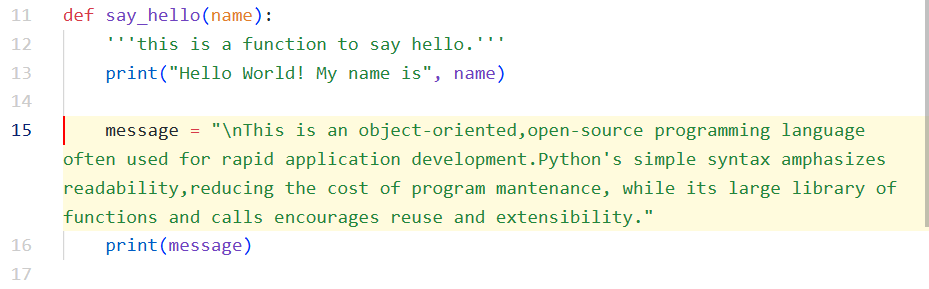
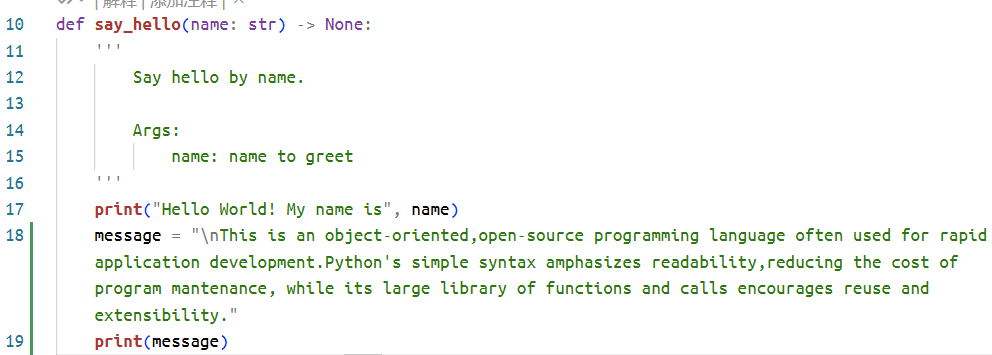
整理Python学习笔记：基础语法学习

diff --git a/02_基础技术研究/00.计算机语言/01.编程语言/Python/01.学习笔记/examples/say_hello/main.py b/02_基础技术研究/00.计算机语言/01.编程语言/Python/01.学习笔记/examples/say_hello/main.py
@@ -6,6 +6,7 @@
     Created on: 2024-06-15
     '''
 
+author_name = "owlman"  # global variable
 def say_hello(name: str) -> None:
     '''
         Say hello by name.
@@ -14,7 +15,17 @@ def say_hello(name: str) -> None:
             name: name to greet
     '''
     print("Hello World! My name is", name)
+    message = "\nThis is an object-oriented,open-source programming language often used for rapid application development.Python's simple syntax amphasizes readability,reducing the cost of program mantenance, while its large library of functions and calls encourages reuse and extensibility."
+    print(message)
+    print("") # print a blank line
+
+def say_hello_to_me() -> None:
+    '''
+        Say hello to myself.
+    '''
+    author_name = "lingjie" # local variable
+    say_hello(author_name)
 
 if __name__ == "__main__":
-    author_name = "lingjie"    
-    say_hello(author_name)
+    say_hello(author_name) 
+    say_hello_to_me()      

diff --git a/02_基础技术研究/00.计算机语言/01.编程语言/Python/01.学习笔记/基础语法学习.md b/02_基础技术研究/00.计算机语言/01.编程语言/Python/01.学习笔记/基础语法学习.md
@@ -14,7 +14,7 @@ categories: 编程语言
 > - 了解 Python 的内置数据类型、自定义类型以及它们可执行的相关操作；
 > - 了解如何在 Python 中使用函数、对象以及模块来实现面向过程/对象的编程；
 
-自《The C Programming Language》这本在编程语言领域中被誉为堪称“圣经”的经典教材问世以来，在命令行终端环境中输出带有“Hello World”字样的信息已经成为了人们学习一门新的编程语言，或者测试该语言的执行环境是否正常的第一个演示程序。这样做不仅可以先让我们对自己要学习的编程语言及其执行环境有一个整体的印象，同时也为该语言的基础语法学习提供了一个切入点。接下来，就让我们闲话少说，先从《[[编程环境配置]]》那篇笔记末尾的那版 Hello World 程序开始聊起吧，其代码如下所示。
+自《The C Programming Language》这本在编程语言领域中被誉为“圣经”的经典教材问世以来，在命令行终端环境中输出带有“Hello World”字样的信息已经成为了人们学习一门新的编程语言，或者测试该语言的执行环境是否正常的第一个演示程序。这样做不仅可以先让我们对自己要学习的编程语言及其执行环境有一个整体的印象，同时也为该语言的基础语法学习提供了一个切入点。接下来，就让我们闲话少说，先从《[[编程环境配置]]》那篇笔记末尾的那版 Hello World 程序开始聊起吧，其代码如下所示。
 
 ```python
 #! /usr/bin/env python
@@ -25,6 +25,7 @@ categories: 编程语言
     Created on: 2024-06-15
     '''
 
+author_name = "owlman"
 def say_hello(name: str) -> None:
     '''
         Say hello by name.
@@ -35,7 +36,6 @@ def say_hello(name: str) -> None:
     print("Hello World! My name is", name)
 
 if __name__ == "__main__":
-    author_name = "lingjie"    
     say_hello(author_name)
 ```
 
@@ -139,50 +139,44 @@ def [函数名称]([参数列表]) -> [返回值类型]:
 - `[函数名称]`是被定义函数的名称，在 Python 中，函数的命名规则与变量是一样的，读者可以自行参考之前关于变量命名规则的介绍来了解更多细节。
 - `[参数列表]`是调用函数时需要传入的参数列表，它可以为空，也可以包含一个或多个参数。每个参数之间用逗号隔开，参数的命名规则同样与变量名一致。在 Python 3.5 之后的版本中，我们还可以通过`参数名:参数类型标注`的形式来标注相应参数的类型，例如`name:str`、`age:int`、`height:float`等。但需要注意的是，参数类型的标注语法是可选的、也不具备强制性的约束，换言之，它并不会在函数被调用时对传入的参数值进行实际的类型检查，但它可以帮助我们更好地理解代码的意图。
 - `-> [返回值类型]`是函数返回值的类型标注语法，它也是可选的，用于说明该函数的返回值类型。同样需要注意的是，它也不会在函数被调用时对返回值进行实际的类型检查。
-- `[功能说明]`是之前演示过的文档字符串，它是一个用于描述函数功能和用法的多行字符串，通常位于函数定义的第一行。在函数的功能过于简答时，这个说明可以省略不写，但在函数的功能较为复杂时，编写一个清晰的功能说明是非常有必要的。
+- `[功能说明]`是之前演示过的文档字符串，它是一个用于描述函数功能和用法的多行字符串，通常位于函数定义的第一行。在函数的功能过于简单时，这个说明可以省略不写，但在函数的功能较为复杂时，编写一个清晰的功能说明是非常有必要的。
 - `[函数主体]`是函数的具体实现部分，其中包含了该函数执行的所有代码。
 
-如果具体到 Hello World 程序中，`[函数名称]`对应的就是`say_hello`，`[参数列表]`在这里就是一对小括号中的`name`，而`[功能说明]`则是我们之前在 Python 交互式终端中使用`help`函数展示过的那个文档字符串。最后，其`[函数主体]`中只有一条用于打印文本信息的语句。与 C/C++/Java 这类语言相比，Python 语法的最大特色之一就是：它不是使用大括号，而是使用文本缩进格式来表示不同的作用域。因此，我们可以看到`[函数主体]`所在的区域与`def`所在的行之间存在着四个空格的缩进。需要注意的是，虽然在语法规则上，定义作用域的缩进所使用的空格数是可变的，但同一级作用域使用的缩进格式必须保持相同的空格数，否则就会出现错误。
+如果具体到 Hello World 程序中，`[函数名称]`对应的就是`say_hello`，`[参数列表]`在这里就是一对小括号中的`name:str`，而`[功能说明]`则是我们之前在 Python 交互式终端中使用`help`函数展示过的那个文档字符串。最后，其`[函数主体]`中只有一条用于打印文本信息的语句。
 
-而在同一个作用域内，我们通常都有一个独立的变量命名空间可以使用，读者可以在其中定义多个局部变量，并编写多行语句来执行与这些变量相关的操作，完全不必担心自己使用的变量名与某个全局变量冲突。例如，如果我们在之前的 Hello World 程序中新增一个名为`another_name`的函数，并在该函数重新定义一个名为`author_name`的变量，那么它就会覆盖掉之前定义的全局变量`author_name`，从而使得该函数内部的代码可以使用这个变量名来引用新的值，具体如下。
+### 作用域与命名空间
+
+与 C/C++/Java 这类大家熟悉的编程语言相比，Python 语法的最大特色之一就是：它不是使用大括号，而是使用文本缩进格式来表示不同的作用域。因此，我们可以在用于函数定义的语法规则中看到，`[函数主体]`所在的区域与`def`所在的行之间存在着四个空格的文本缩进，这代表着它们属于不同的作用域。**需要注意的是**：虽然在 Python 的语法规则上，定义作用域的缩进所使用的空格数是可变的，但同一级作用域使用的缩进必须保持相同的空格数，否则就会出现错误。
+
+在同一个作用域内，我们通常都有一个独立的变量命名空间可以使用，读者可以在其中定义多个局部变量，并编写多行语句来执行与这些变量相关的操作，完全不必担心当前作用域所使用的变量名与某个全局作用域或其他作用域中的变量冲突。例如，如果我们在之前的 Hello World 程序中新增一个名为`say_hello_to_me`的函数，并在该函数重新定义一个名为`author_name`的变量，那么它就会覆盖掉之前定义的全局变量`author_name`，从而使得该函数内部的代码可以使用这个变量名来引用新的值，具体如下。
 
 ```python
-def say_hello(name):
-    '''this is a function to say hello.'''
-    print("Hello World! My name is", name) 
+author_name = "owlman"  # 全局变量   
 
-def another_name():
-    '''this is another function.'''
-    # 在函数内部重新定义一个名为 author_name 的变量
-    author_name = "owlman"
-    # 此时 author_name 变量的值为 "owlman" 
+def say_hello(name: str) -> None:
+    '''
+        Say hello by name.
+     
+        Args:
+            name: name to greet
+    '''
+    print("Hello World! My name is", name)
+
+def say_hello_to_me() -> None:
+    '''
+        Say hello to myself.
+    '''
+    author_name = "lingjie" # 局部变量
     say_hello(author_name)
 
 if __name__ == "__main__":
-    author_name = "lingjie"
-    say_hello(author_name) # 此时 author_name 变量的值为 "lingjie"
-    another_name()         # 此时 author_name 变量的值为 "owlman"
+    say_hello(author_name)  # 输出：Hello World! My name is owlman
+    say_hello_to_me()       # 输出：Hello World! My name is lingjie
 ```
 
-上述修改的执行结果如下图所示，读者可以看到，在`another_name`函数中重新定义的`author_name`变量并没有影响到全局变量的值。
+上述修改的执行结果如图 3 所示，读者可以看到，在`say_hello_to_me`函数中重新定义的`author_name`变量并没有影响到全局变量的值。
 
-![Python 中的作用域](img/hello_python1.png)
-
-另外在 Python 中，通常一个逻辑行代表着一条独立的语句。如果某一条语句因过长而影响了代码的可读性，代码编辑器可能会对其进行自动换行，但它在 Python 运行时环境看来依然属于同一逻辑行。例如，我们可以对之前的`say_hello`函数做一些修改，让它输出的内容丰富一些。
-
-```python
-def say_hello(name):
-    '''this is a function to say hello.'''
-    print("Hello World! My name is", name)
-
-    # 定义一个包含较长文本的变量 message
-    message = "\nThis is an object-oriented,open-source programming language often used for rapid application development.Python's simple syntax amphasizes readability,reducing the cost of program mantenance, while its large library of functions and calls encourages reuse and extensibility."
-    print(message)
-```
-
-上述代码在 VS Code 编辑器中的显示效果如下图所示，读者可以看到，我们在`say_hello`函数的作用域中新增了一个名为`message`的变量，给它赋值了一个比较长的字符串，虽然编辑器将其自动换行成了三行内容，但它们在逻辑上依然被视为同一行内容来输出的。
-
-![Python 中的逻辑行](img/length_string.png)
+![图3：Python 中的作用域](img/hello_python1.png)
 
 ## 对象与数据类型
 
@@ -398,7 +392,18 @@ ex_rate = 0.1404
 USD = CNY * ex_rate
 ```
 
-上述代码中出现了三条 Python 语句。它们都是需按照`[变量名称] = [表达式])`这样的语法规则编写而成，主要作用是将赋值操作符（`=`）右侧的表达式赋给左侧的变量，通常被称为**赋值语句**。另外，如果被赋值的`[变量名称]`是第一次出现当前作用域中的话，它们同时也充当了变量定义语句的角色。在这类语句中，变量被赋予的值及其数据类型就取决于赋值操作符右侧的表达式了。
+上述代码中出现了三条 Python 语句。它们都是需按照`[变量名称] = [表达式])`这样的语法规则编写而成，主要作用是将赋值操作符（`=`）右侧的表达式赋给左侧的变量，通常被称为**赋值语句**。另外，如果被赋值的`[变量名称]`是第一次出现当前作用域中的话，它们同时也充当了变量定义语句的角色。在这类语句中，变量被赋予的值及其数据类型就取决于赋值操作符右侧的表达式了。另外在 Python 中，通常一个逻辑行代表着一条独立的语句。如果某一条赋值语句因右侧的表达式过长而影响了代码的可读性，代码编辑器可能会对其进行自动换行，但它在 Python 运行时环境看来依然属于同一逻辑行。例如，我们可以对之前的`say_hello`函数做一些修改，让它输出的内容丰富一些。
+
+```python
+def say_hello(name):
+    # 省略之前的代码
+    message = "\nThis is an object-oriented,open-source programming language often used for rapid application development.Python's simple syntax amphasizes readability,reducing the cost of program mantenance, while its large library of functions and calls encourages reuse and extensibility."
+    print(message)
+```
+
+上述代码在 VS Code 编辑器中的显示效果如下图所示，读者可以看到，我们在`say_hello`函数的作用域中新增了一个名为`message`的变量，给它赋值了一个比较长的字符串，虽然编辑器将其自动换行成了三行内容，但它们在逻辑上依然被视为同一行内容来输出的，如图 4 所示。
+
+![图4：Python 中的逻辑行与编辑器的自动换行](img/length_string.png)
 
 在编程语言中，**表达式**通常是由一个或多个变量和运算符（或操作符）组合而成，主要作用是执行某种计算或逻辑判断，并返回一个结果。表达式可以是简单的，也可以是复杂的，具体取决于它们包含的运算符或操作符。下面，让我们来对编程中会用到的表达式做一个简单的整理。
 
